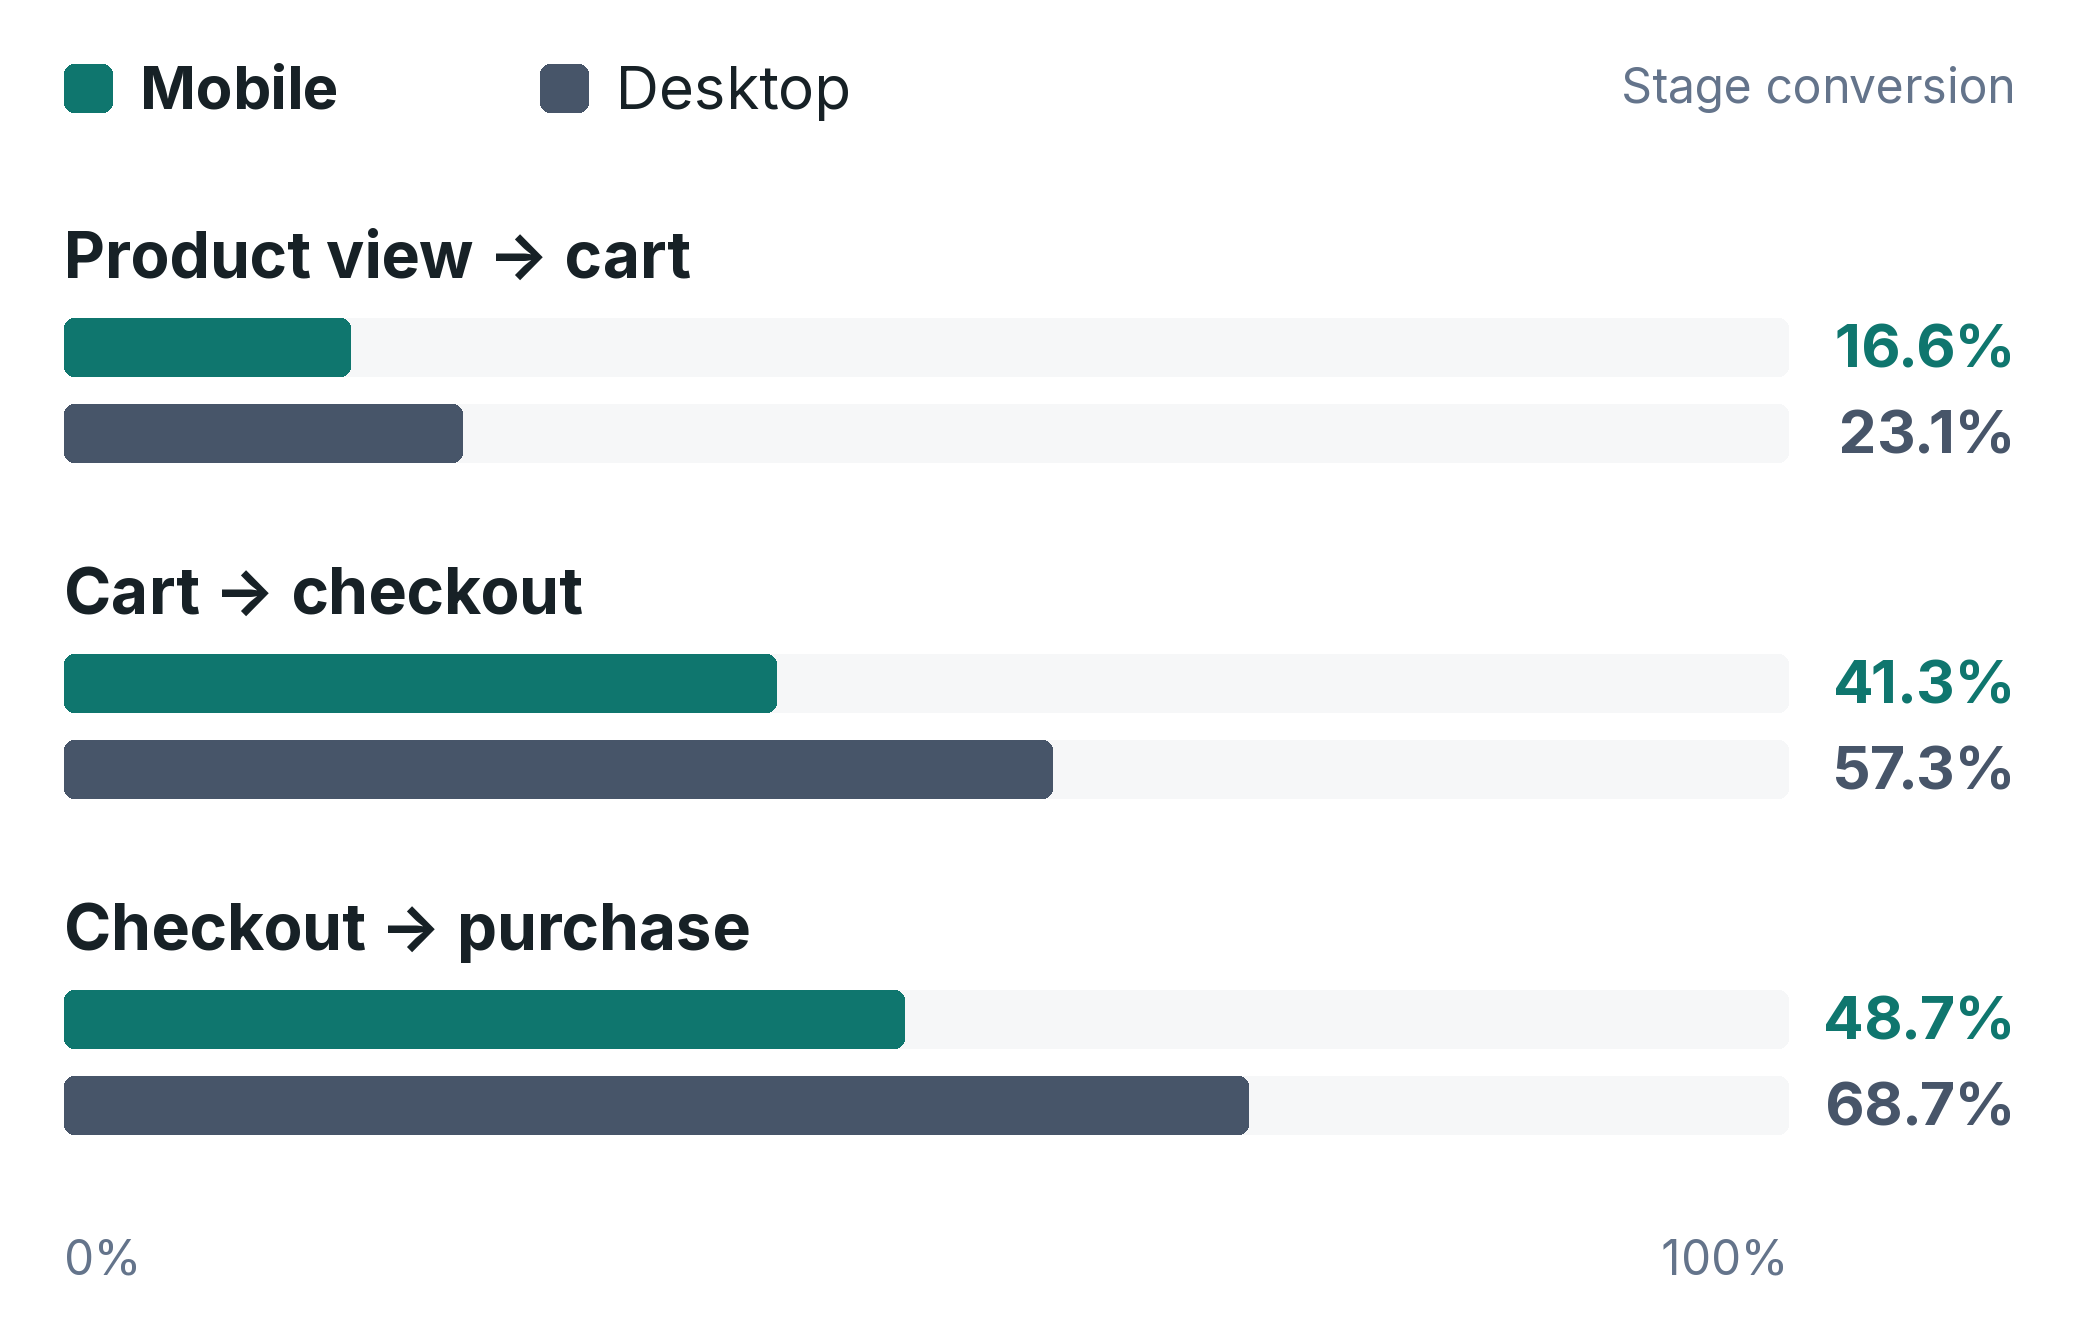
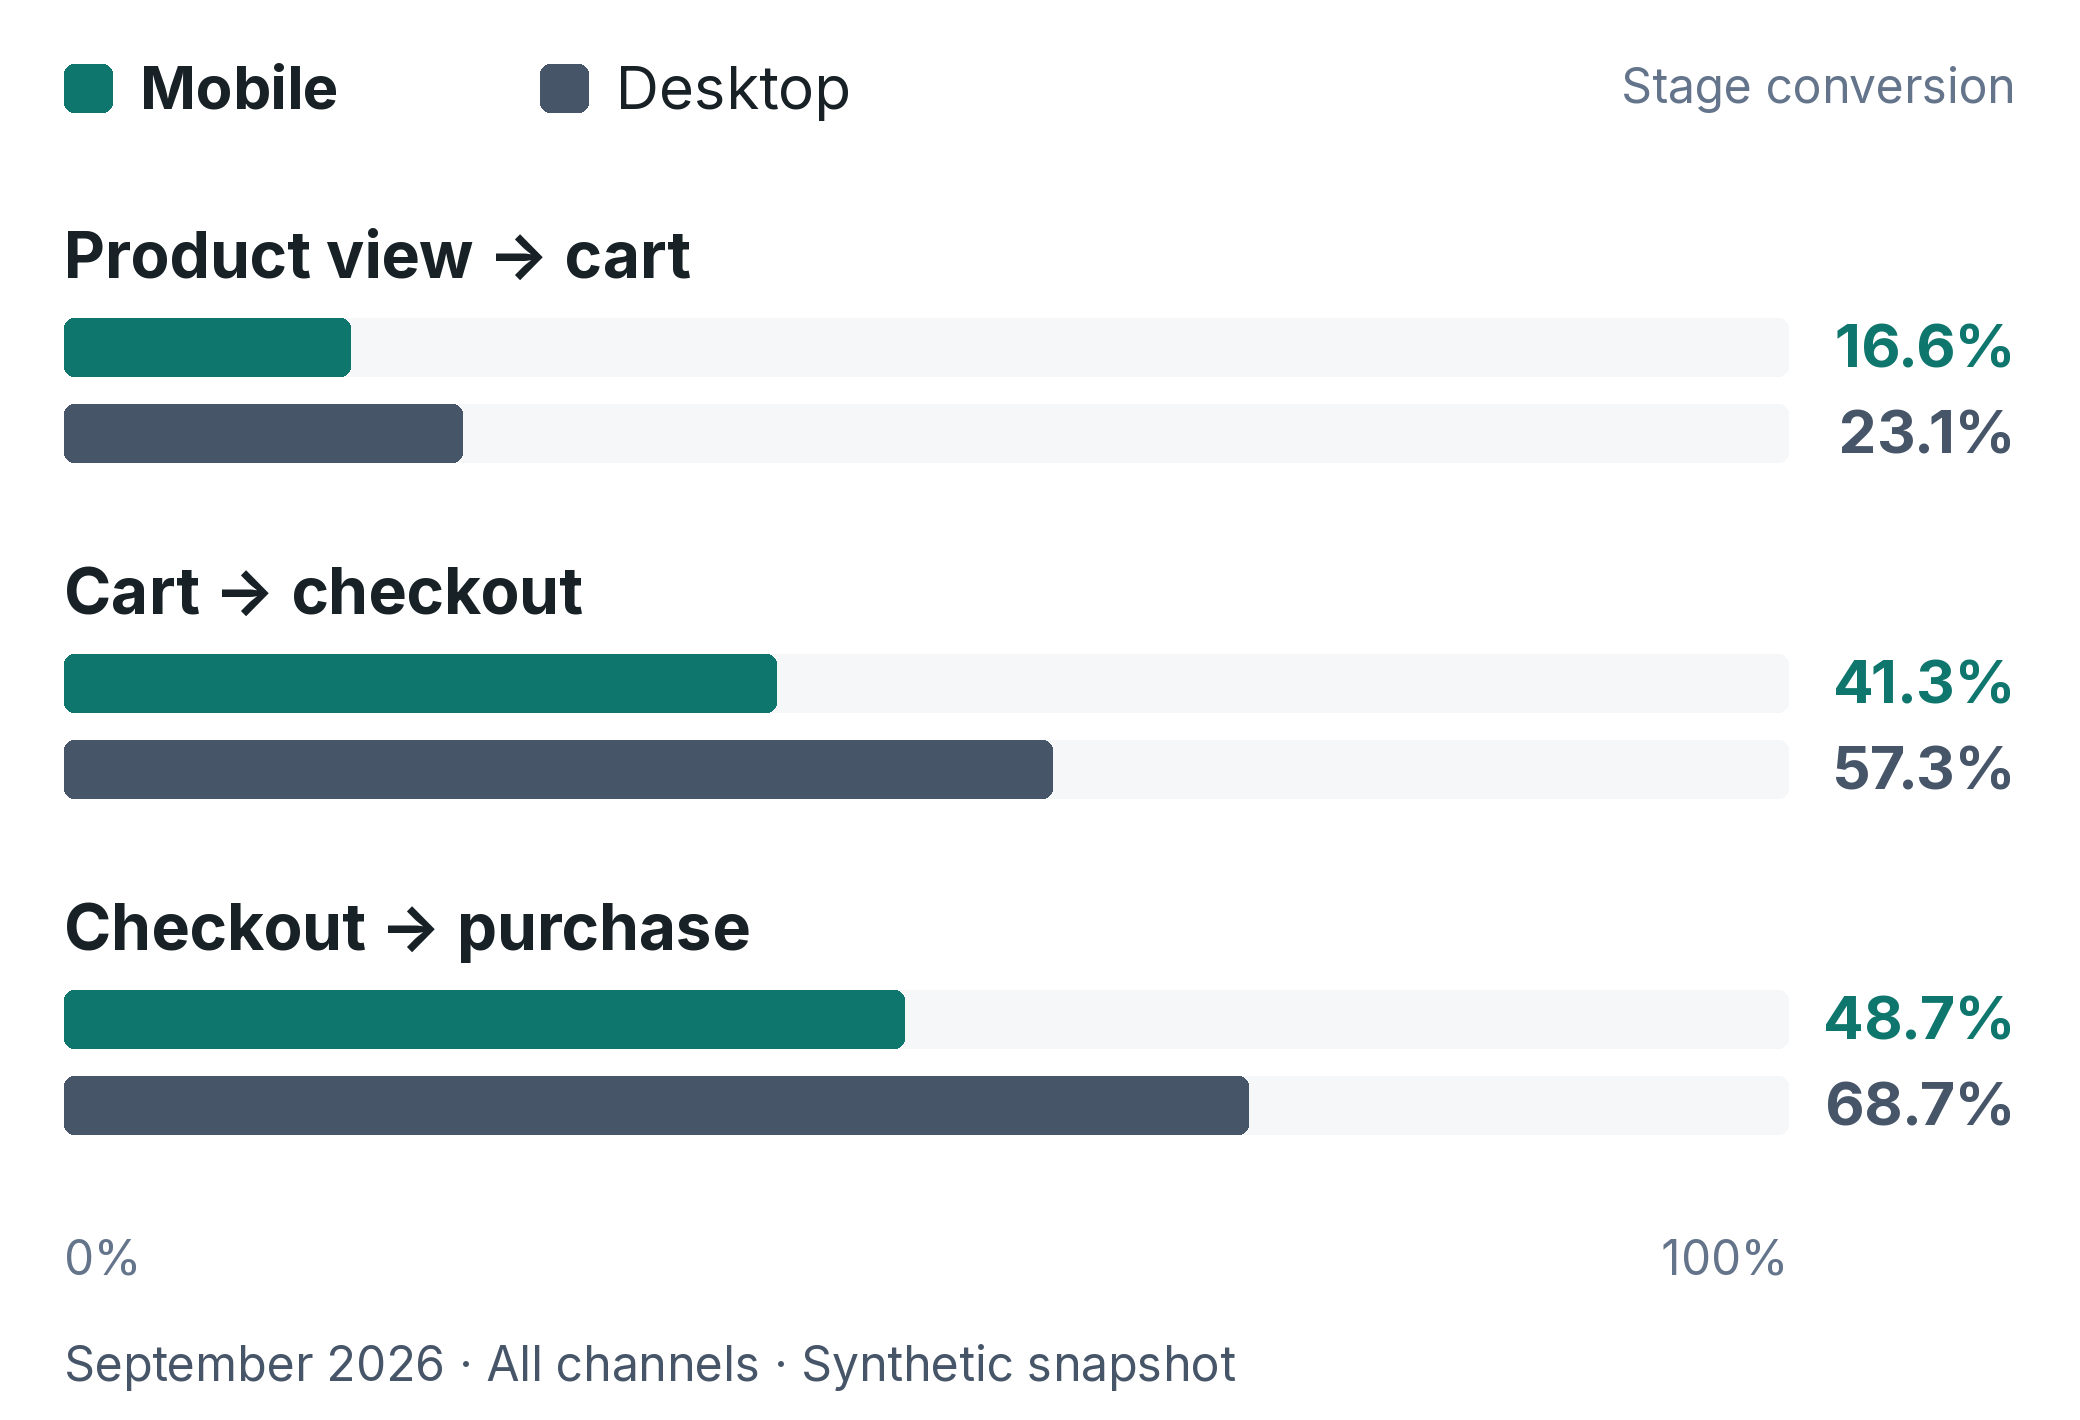
Label the comparison chart reporting period

diff --git a/trellum/demo/reports/checkout-presentation/build_visuals.py b/trellum/demo/reports/checkout-presentation/build_visuals.py
@@ -40,7 +40,7 @@ def rect(draw, bounds, color, radius=0):
 
 
 def build_comparison(data):
-    image, draw = canvas(1040, 660)
+    image, draw = canvas(1040, 710)
     rect(draw, (32, 32, 56, 56), PALETTE.bg_header, 5)
     text(draw, (70, 25), "Mobile", 30, bold=True)
     rect(draw, (270, 32, 294, 56), PALETTE.text_secondary, 5)
@@ -62,6 +62,8 @@ def build_comparison(data):
             text(draw, (1008, bar_y - 5), f"{value:.1%}", 30, color, bold=True, anchor="ra")
     text(draw, (32, 614), "0%", 24, PALETTE.text_muted)
     text(draw, (894, 614), "100%", 24, PALETTE.text_muted, anchor="ra")
+    text(draw, (32, 667), "September 2026 · All channels · Synthetic snapshot", 24,
+         PALETTE.text_secondary)
     image.save(ROOT / "evidence" / "stage-comparison.png", optimize=True)
 
 
